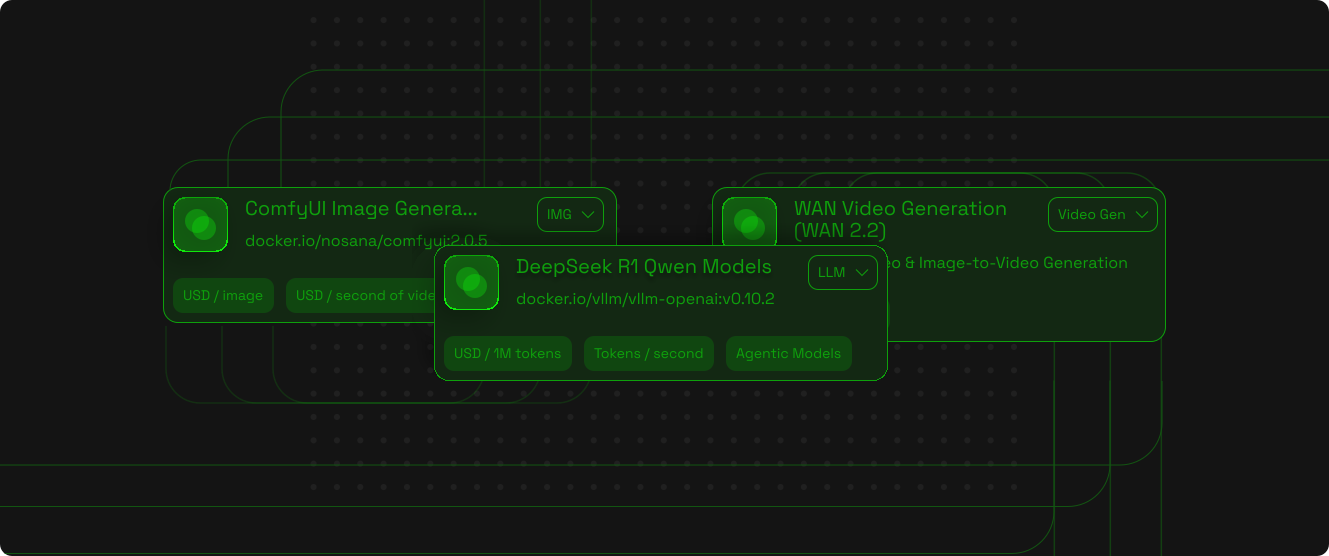
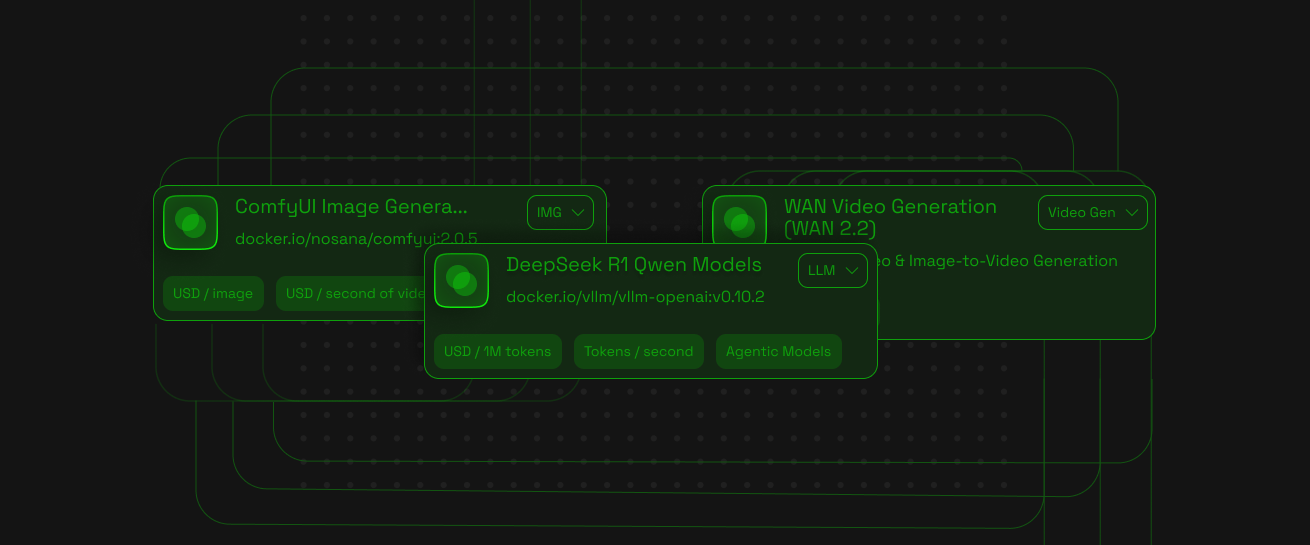
fix: text and images issues

diff --git a/src/content/homepage/index.md b/src/content/homepage/index.md
@@ -5,7 +5,7 @@ heroSection:
     title: "GPU Cloud"
     icon: "./assets/gpuIcon.svg"
 
-  heading: "Affordable GPU Rental at Scale"
+  heading: "Instant GPU Rental at Scale for AI & High-Performance Workloads"
   description: >
     An open-source GPU cloud built for AI and high-performance workloads. Run on demand with flexible pricing and up to 6× lower costs
 
